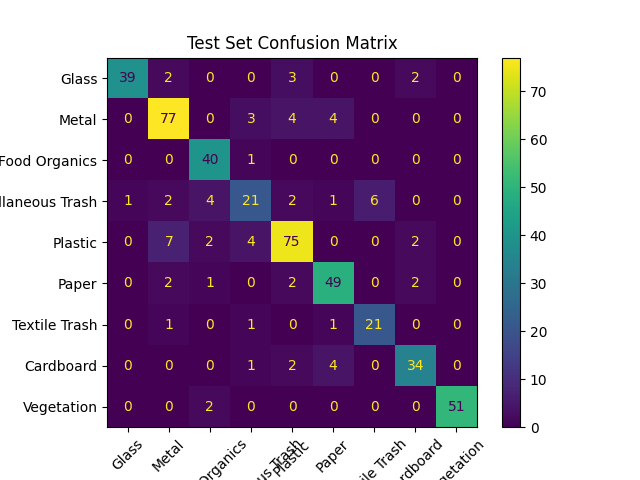
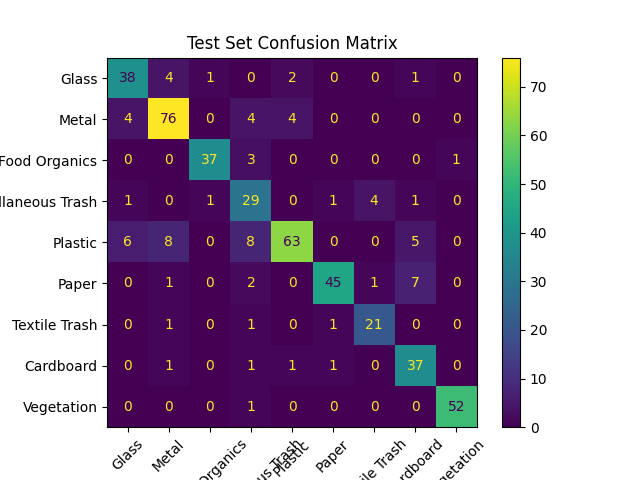
===2025/05/11=== mac

diff --git a/noRetrainOnTorch.py b/noRetrainOnTorch.py
@@ -2,10 +2,11 @@
 # 
 # | 模型              | Test Accuracy                      |
 # |-------------------|------------------------------------|
-# | MobileNetV2       | 0.8445378151260504                 |
-# | EfficientNetB0    | 0.8529411764705882                 |
-# | EfficientNetB1    | *(尚未測試)*                        |
+# | MobileNetV2       | 0.8361344537815126                 |
+# | EfficientNetB0    | 0.8403361344537815                 |
+# | EfficientNetB1    | 0.8403361344537815                 |
 # | EfficientNetV2S   | *(尚未測試)*                        |
+# | EfficientNetV2M   | 0.7415966386554622                 |
 # | ConvNeXtTiny      | *(尚未測試)*                        |
 
 
@@ -91,44 +92,52 @@ x_train = DataLoader(train_dataset, batch_size=16, shuffle=True)
 x_val = DataLoader(val_dataset, batch_size=16, shuffle=False)
 x_test = DataLoader(test_dataset, batch_size=16, shuffle=False)
 
+"""
 model = models.mobilenet_v2(pretrained=True)
 in_features = model.classifier[1].in_features
 model.classifier[1] = nn.Linear(in_features, 9)
 model = model.to(device)
+model_dir = f"./models/MobileNetV2"
+"""
 
 """
-#model = models.efficientnet_b0(pretrained=True)
+model = models.efficientnet_b0(pretrained=True)
 in_features = model.classifier[1].in_features
 model.classifier[1] = nn.Linear(in_features, 9)
 model = model.to(device)
+model_dir = f"./models/EfficientNetB0"
 """
 
 """
-#model = models.efficientnet_b1(pretrained=True)
+model = models.efficientnet_b1(pretrained=True)
 in_features = model.classifier[1].in_features
 model.classifier[1] = nn.Linear(in_features, 9)
 model = model.to(device)
+model_dir = f"./models/EfficientNetB1"
 """
 
-"""
-#model = models.efficientnet_v2_s(weights=models.EfficientNet_V2_S_Weights.DEFAULT)
+
+model = models.efficientnet_v2_s(weights=models.EfficientNet_V2_S_Weights.DEFAULT)
 in_features = model.classifier[1].in_features
 model.classifier[1] = nn.Linear(in_features, 9)
 model = model.to(device)
-"""
+model_dir = f"./models/EfficientNetV2S"
+
 
 """
-#model = models.efficientnet_v2_m(weights=models.EfficientNet_V2_M_Weights.DEFAULT)
+model = models.efficientnet_v2_m(weights=models.EfficientNet_V2_M_Weights.DEFAULT)
 in_features = model.classifier[1].in_features
 model.classifier[1] = nn.Linear(in_features, 9)
 model = model.to(device)
+model_dir = f"./models/EfficientNetV2M"
 """
 
 """
-#model = models.convnext_tiny(weights=models.ConvNeXt_Tiny_Weights.DEFAULT)
+model = models.convnext_tiny(weights=models.ConvNeXt_Tiny_Weights.DEFAULT)
 in_features = model.classifier[2].in_features
 model.classifier[2] = nn.Linear(in_features, 9)
 model = model.to(device)
+model_dir = f"./models/ConvNeXtTiny"
 """
 
 for param in model.features.parameters():
@@ -136,7 +145,7 @@ for param in model.features.parameters():
 
 criterion = nn.CrossEntropyLoss()
 optimizer = optim.Adam(model.parameters(), lr=0.001)
-scheduler = torch.optim.lr_scheduler.StepLR(optimizer, step_size=15, gamma=0.5)
+#scheduler = torch.optim.lr_scheduler.StepLR(optimizer, step_size=15, gamma=0.5)
 
 best_val_acc = 0.0
 initial_epochs = 50
@@ -174,17 +183,15 @@ for epoch in range(initial_epochs):
             val_total += labels.size(0)
     val_acc = val_correct / val_total
 
-if val_acc > best_val_acc:
-    best_val_acc = val_acc
-    # 根據模型名稱建立資料夾並儲存
-    model_name = [k for k in models.__dict__ if models.__dict__[k] == type(model)][0]
-    model_dir = f"./models/{model_name}"
-    os.makedirs(model_dir, exist_ok=True)
-    model_path = os.path.join(model_dir, "best_model.pth")
-    torch.save(model.state_dict(), model_path)
+    if val_acc > best_val_acc:
+        best_val_acc = val_acc
+        # 根據模型名稱建立資料夾並儲存
+        os.makedirs(model_dir, exist_ok=True)
+        model_path = os.path.join(model_dir, "best_model.pth")
+        torch.save(model.state_dict(), model_path)
 
     print(f"Epoch {epoch+1}/{initial_epochs} - Loss: {running_loss:.4f}, Train Acc: {train_acc:.4f}, Val Acc: {val_acc:.4f}")
-    scheduler.step()
+    #scheduler.step()
 
 # 測試階段
 model.eval()
